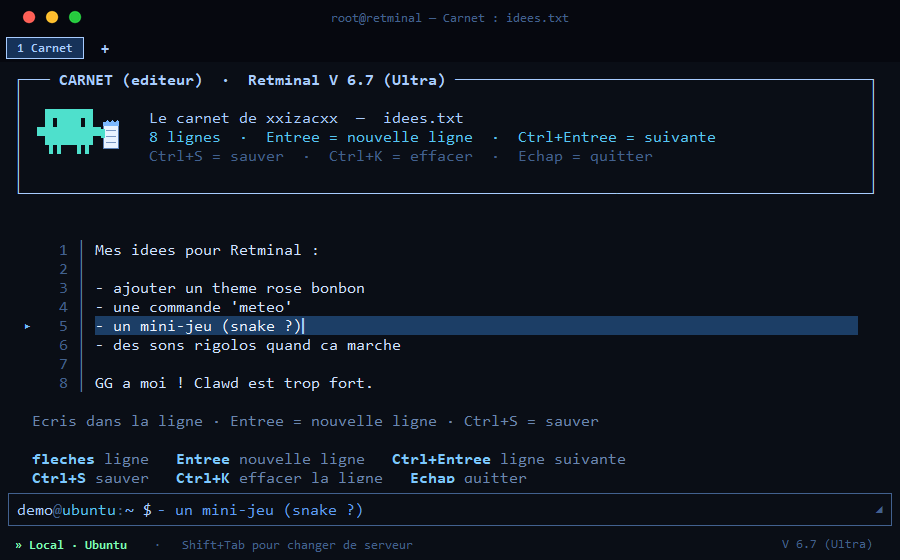
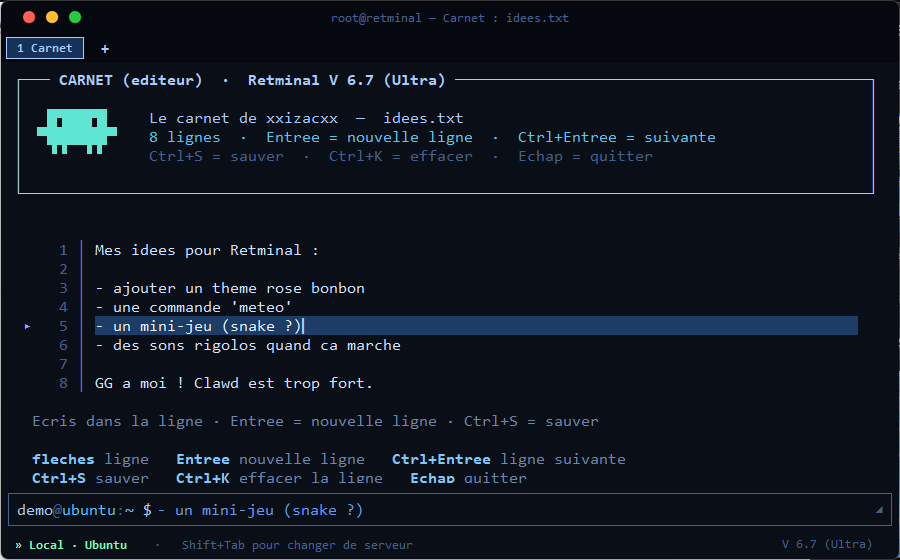
Carnet : Rety normal en turquoise (fini le calepin qui l'ecrasait)
Le _carnet_strips (Rety a 4px de large pour caser un calepin) l'ecrasait ;
remplace par le Rety normal (_creature_strips) juste teinte en turquoise.

diff --git a/Version-Mac/retminal.py b/Version-Mac/retminal.py
@@ -35,6 +35,7 @@ MONO = "Menlo" if IS_MAC else "Consolas"
 CLAWD_HEX = "#d8825f"
 VERSION = "V 6.7 (Ultra)"
 RETY_GREEN = (174, 255, 201, 255)
+RETY_TURQ = (94, 230, 210, 255)
 CLAWD_ORANGE = (216, 130, 95, 255)
 CREATURE_NORMAL = [
     "...XXXXXXXXXXXX...",
@@ -1192,40 +1193,11 @@ class Retminal:
         try:
             self._strips = self._creature_strips(CREATURE_NORMAL, RETY_GREEN)
             self._clawd_strips = self._creature_strips(CREATURE_NORMAL, CLAWD_ORANGE)
-            self._carnet_mascot = self._carnet_strips()
+            self._carnet_mascot = self._creature_strips(CREATURE_NORMAL, RETY_TURQ)
         except Exception:
             self._strips = []
             self._clawd_strips = []
             self._carnet_mascot = []
-
-    def _carnet_strips(self):
-        from PIL import Image, ImageTk, ImageDraw
-
-        W, H = 90, 57
-        pxw, pxh = 4, 9
-        NAVY = (10, 14, 22, 255)
-        TURQ = (78, 224, 204, 255)
-        img = Image.new("RGBA", (W, H), NAVY)
-        d = ImageDraw.Draw(img)
-        ox, oy = 1, 1
-        for y, row in enumerate(CREATURE_NORMAL):
-            for x, ch in enumerate(row):
-                if ch == "X":
-                    d.rectangle(
-                        [ox + x * pxw, oy + y * pxh, ox + x * pxw + pxw - 1, oy + y * pxh + pxh - 1],
-                        fill=TURQ,
-                    )
-        nx, ny, nw, nh = 71, 14, 15, 26
-        d.rectangle([nx, ny, nx + nw, ny + nh], fill=(233, 242, 255, 255), outline=(90, 127, 181, 255))
-        d.rectangle([nx, ny, nx + nw, ny + 3], fill=(124, 184, 255, 255))
-        for i in range(3):
-            cx = nx + 3 + i * 5
-            d.ellipse([cx, ny - 2, cx + 2, ny + 1], fill=(124, 184, 255, 255))
-        for i in range(3):
-            ly = ny + 8 + i * 6
-            d.line([nx + 3, ly, nx + nw - 3, ly], fill=(120, 150, 195, 255), width=1)
-        d.rectangle([nx - 2, ny + 7, nx + 1, ny + 15], fill=TURQ)
-        return [ImageTk.PhotoImage(img.crop((0, i * 19, W, i * 19 + 19))) for i in range(3)]
 
     def _apply_theme(self, t):
         self.theme = t

diff --git a/retminal.py b/retminal.py
@@ -28,6 +28,7 @@ MONO = "Consolas"
 CLAWD_HEX = "#d8825f"
 VERSION = "V 6.7 (Ultra)"
 RETY_GREEN = (174, 255, 201, 255)
+RETY_TURQ = (94, 230, 210, 255)
 CLAWD_ORANGE = (216, 130, 95, 255)
 CREATURE_NORMAL = [
     "...XXXXXXXXXXXX...",
@@ -1127,40 +1128,11 @@ class Retminal:
         try:
             self._strips = self._creature_strips(CREATURE_NORMAL, RETY_GREEN)
             self._clawd_strips = self._creature_strips(CREATURE_NORMAL, CLAWD_ORANGE)
-            self._carnet_mascot = self._carnet_strips()
+            self._carnet_mascot = self._creature_strips(CREATURE_NORMAL, RETY_TURQ)
         except Exception:
             self._strips = []
             self._clawd_strips = []
             self._carnet_mascot = []
-
-    def _carnet_strips(self):
-        from PIL import Image, ImageTk, ImageDraw
-
-        W, H = 90, 57
-        pxw, pxh = 4, 9
-        NAVY = (10, 14, 22, 255)
-        TURQ = (78, 224, 204, 255)
-        img = Image.new("RGBA", (W, H), NAVY)
-        d = ImageDraw.Draw(img)
-        ox, oy = 1, 1
-        for y, row in enumerate(CREATURE_NORMAL):
-            for x, ch in enumerate(row):
-                if ch == "X":
-                    d.rectangle(
-                        [ox + x * pxw, oy + y * pxh, ox + x * pxw + pxw - 1, oy + y * pxh + pxh - 1],
-                        fill=TURQ,
-                    )
-        nx, ny, nw, nh = 71, 14, 15, 26
-        d.rectangle([nx, ny, nx + nw, ny + nh], fill=(233, 242, 255, 255), outline=(90, 127, 181, 255))
-        d.rectangle([nx, ny, nx + nw, ny + 3], fill=(124, 184, 255, 255))
-        for i in range(3):
-            cx = nx + 3 + i * 5
-            d.ellipse([cx, ny - 2, cx + 2, ny + 1], fill=(124, 184, 255, 255))
-        for i in range(3):
-            ly = ny + 8 + i * 6
-            d.line([nx + 3, ly, nx + nw - 3, ly], fill=(120, 150, 195, 255), width=1)
-        d.rectangle([nx - 2, ny + 7, nx + 1, ny + 15], fill=TURQ)
-        return [ImageTk.PhotoImage(img.crop((0, i * 19, W, i * 19 + 19))) for i in range(3)]
 
     def _apply_theme(self, t):
         self.theme = t

diff --git a/README.md b/README.md
@@ -57,7 +57,7 @@ Tu vois **tout** ce qu'il fait (le code qu'il écrit, les commandes qu'il lance)
 ## 📓 Le carnet — éditeur de fichiers
 
 Tape **`nano <fichier>`** : Retminal ouvre un éditeur plein écran façon **carnet** (thème
-bleu nuit, Rety en haut qui tient son calepin 🐢). Tu édites **ligne par ligne**, la ligne
+bleu nuit, avec Rety en turquoise en haut 🐢). Tu édites **ligne par ligne**, la ligne
 choisie est surlignée, et tu sauves avec `Ctrl+S`. Ça marche sur ton PC **et** sur le VPS.
 
 ![Retminal — le carnet (éditeur)](docs/nano.png)